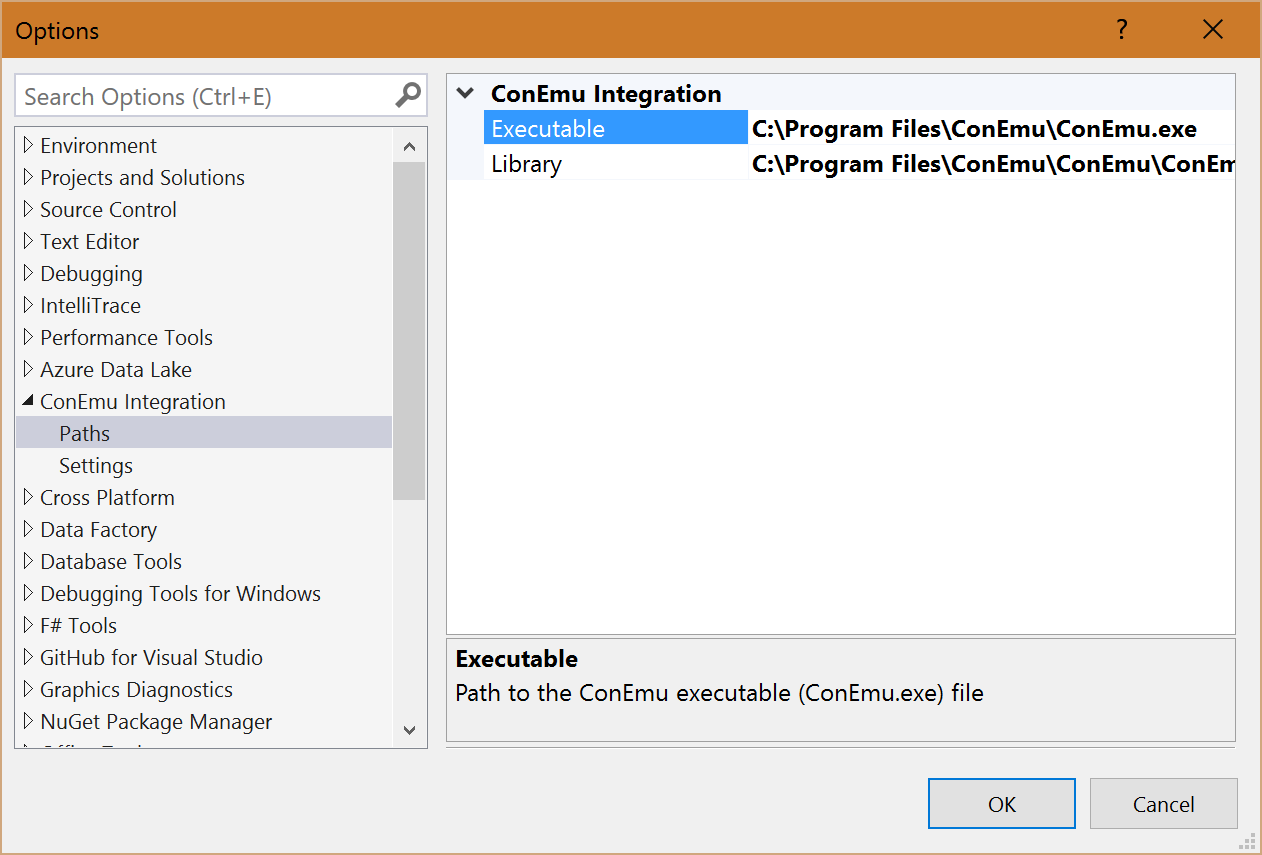
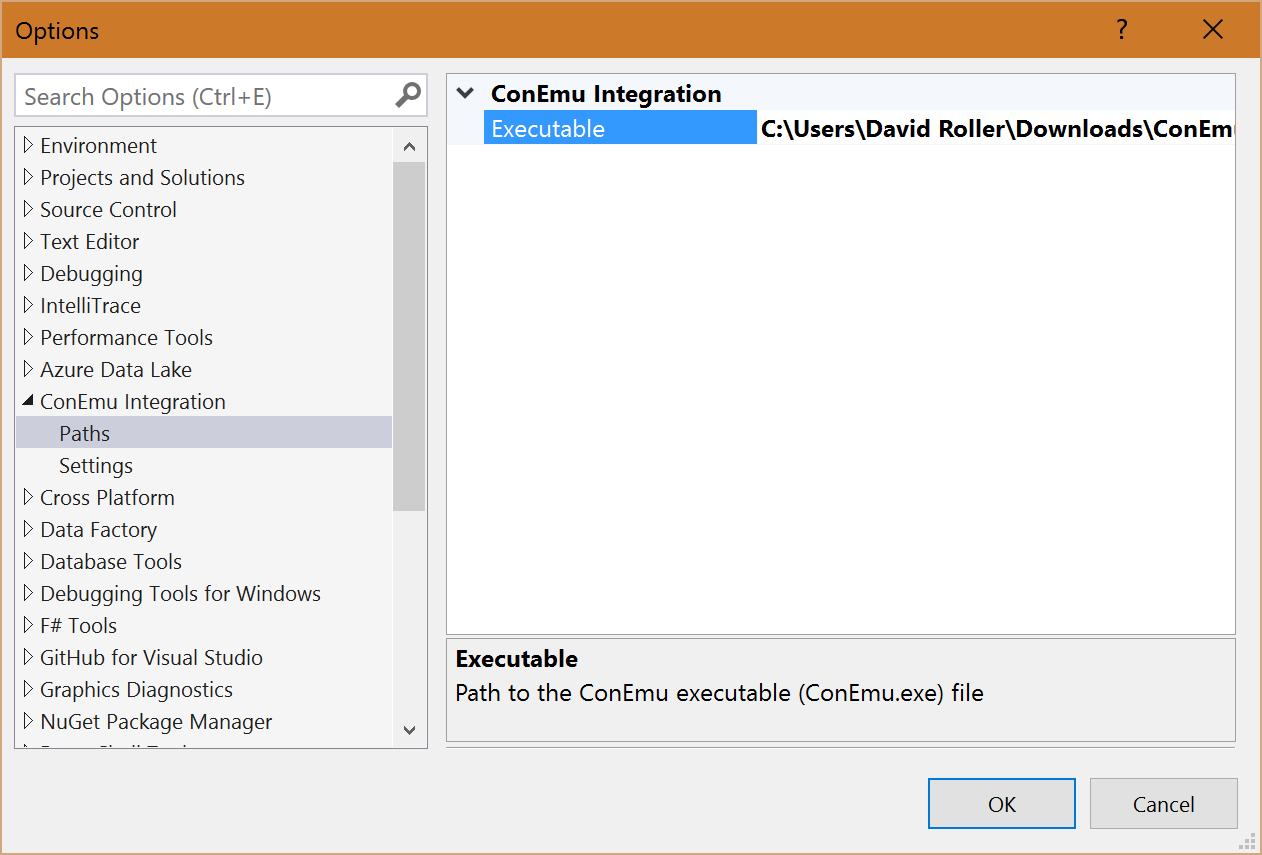
Updated the readme according to the new features

Changed region(s): [[0.5872, 0.1216, 0.9889, 0.2129], [0.3708, 0.1825, 0.4635, 0.2129], [0.309, 0.5778, 0.3399, 0.6082]]

diff --git a/ConEmuIntegration/Settings/OptionPageGridConEmu.cs b/ConEmuIntegration/Settings/OptionPageGridConEmu.cs
@@ -32,7 +32,7 @@ namespace ConEmuIntegration.Settings
         public ShellTypes Shell { get; set; }
 
         [Category("ConEmu Integration")]
-        [DisplayName("External conemu configuration")]
+        [DisplayName("XML configuration")]
         [Description("[Optional] Use an external configuration file (ConEmu.xml) for integrated conemu " + 
             "(Change may require restart of Visual Studio)")]
         public string ConEmuXML { get; set; }

diff --git a/README.md b/README.md
@@ -13,14 +13,17 @@ See the ConEmu section for further detail about the console emulator.
 
 See the [changelog](CHANGELOG.md) for changes and roadmap.
 
+If you want to use your own ConEmu Settings or change the default settings please use your own configuration file.
+To define custom Task please also use an external configuration file.
+See "Optional: External Conemu configuration XML" how to do this.
+
 ## System Requirements
 
 - Installed Visual Studio 2015 or Visual Studio 2013
 - Installed or portable version of ConEmu
 - ConEmu build 151201 or higher is required
-- ConEmuCD.dll x86 version has to be used (x64 version isn't supported)
 - ConEmu.exe can be used in x86 as well as in x64 version
-- Path to ConEmu[64].exe and ConEmuCD.dll set in the Visual Studio settings
+- Path to ConEmu[64].exe set in the Visual Studio settings
 
 ## ConEmu
 
@@ -62,27 +65,29 @@ Please download / install the ConEmu seperatly. It isn't part of this extension.
 After you have downloaded / installed ConEmu please set the paths in the settings of this extension.
 Therefor open the settings of Visual Studio and navigate to the "ConEmu Integration" section.
 
-Visual Studio is a x86 application and this extension runs in the context of te Visual Studio process.
-It isn't possible to load x64 libraries from a x86 application.
-So please configure here the paths to the x86 version of conemu (ConEmu.exe, ConEmuCD.dll) 
-and not the paths to x64 (ConEmu64.exe, ConEmuCD64.dll) version.
-
-Please set the following two paths in this section of the configuration.<br/>
-The path to the conemu executable file:<br/>
+Please set the path to the conemu executable file in the section of the configuration:<br/>
 <img src="Images/SettingsConEmuExe.png" width="400" /><br/>
 E.g.: C:\Users\David Roller\Downloads\ConEmuPack.160504\ConEmu.exe<br/>
-
-The path to the conemu CD library file:<br/>
-<img src="Images/SettingsConEmuCDDll.png" width="400" /><br/>
-E.g.: C:\Users\David Roller\Downloads\ConEmuPack.160504\ConEmu\ConEmuCD.dll<br/>
 
 ### ConEmu settings
 Visual Studio settings page to make it possible to change settings of ConEmu.
 
 #### Change the type of the shell
-The shell type which is used within ConEmu can be configured on the settings page.<br/>
-Changes of the type of shell may require a restart of Visual Studio before they are used.<br/>
+The commands sended from the solution explorer extension are dependend on the type of shell.
+E.g. in CMS it uses "cd /d" and in powershell only "cd".<br/>
+
+Because of this you have to configure the shell type that Visual Studio knows which set of commands it should use.<br/>
 <img src="Images/SettingsConEmuShell.png" width="400" /><br/>
+
+#### Optional: External Conemu configuration XML
+The extension contains an internal configuration which isn't changeable.
+If you want to change this configuration or use an custom configuration please set the path to your configruation 
+in the Visual Studio settings.<br/>
+<img src="Images/SettingsConEmuConfig.png" width="400" /><br/>
+E.g.: C:\Users\David Roller\AppData\Roaming\ConEmu.xml<br/>
+
+Please keep in mind that the extension doesn't support all configuration settings of conemu.
+Don't using the internal configuration could cause incompatibilities. 
 
 ## Contribute
 Check out the [contribution guidelines](CONTRIBUTING.md)

diff --git a/CHANGELOG.md b/CHANGELOG.md
@@ -1,6 +1,6 @@
 # Roadmap
 
-- [ ] Add a possibility to adjust the some more ConEmu settings in the VS settings
+Currently nothing on the roadmap
 
 # Changelog
 
@@ -33,3 +33,11 @@ on the official Visual Studio extension gallery.
 **2016-05-15**
 
 - [x] Possibility to use Powershell within ConEmu instead of CMD
+
+## 2.0.0.0
+
+**2016-05-16**
+
+- [x] Use the controls from the nuget package provided by conemu
+- [x] Enhance the internal configuration
+- [x] Use an external configuration
